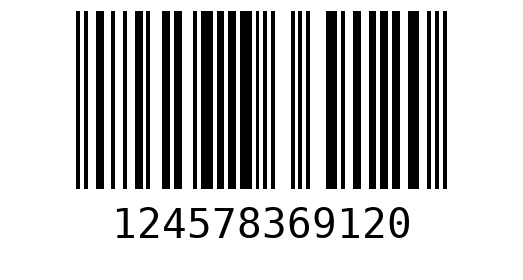
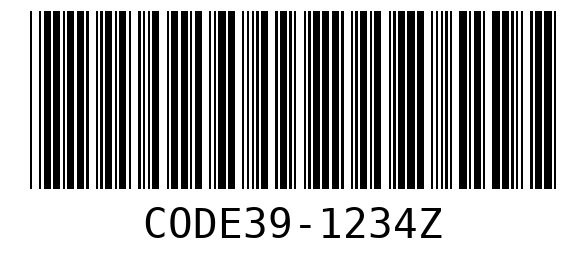
add work

diff --git a/Generate-Barcode.py b/Generate-Barcode.py
@@ -1,3 +1,5 @@
+# Use UPC type only
+"""
 import barcode
 from barcode.writer import ImageWriter
 
@@ -8,3 +10,73 @@ my_barcode.save("generated_barcode")
 
 from PIL import Image
 Image.open('generated_barcode.png')
+"""
+
+# Using the all supported types:
+#   ean8, ean13, upc, isbn10, isbn13,
+#   issn, code39, code128, pzn, jan
+
+import barcode
+from barcode.writer import ImageWriter
+from PIL import Image
+
+# List of supported barcode types
+supported_types = [
+    "ean8", "ean13", "upc", "isbn10", "isbn13",
+    "issn", "code39", "code128", "pzn", "jan"
+]
+
+print("Supported Barcode Types:")
+for i, code in enumerate(supported_types, 1):
+    print(f"{i}. {code}")
+
+# User selects barcode type
+while True:
+    try:
+        choice = int(input("Select a barcode type by number (e.g., 3 for upc): "))
+        if 1 <= choice <= len(supported_types):
+            selected_type = supported_types[choice - 1]
+            break
+        else:
+            print("Invalid choice. Try again.")
+    except ValueError:
+        print("Please enter a valid number.")
+
+# Get the barcode class
+barcode_format = barcode.get_barcode_class(selected_type)
+
+# Ask user for code input
+while True:
+    number = input(f"Enter the code for {selected_type} (check its digit length): ")
+    try:
+        # Try to create the barcode object
+        my_barcode = barcode_format(number, writer=ImageWriter())
+        break
+    except Exception as e:
+        print(f"Error: {e}. Please try again with a valid code.")
+
+# Save the barcode image
+filename = my_barcode.save("generated_barcode")
+print(f"Barcode generated and saved as: {filename}.png")
+
+# Open the image using Pillow
+Image.open(filename + ".png").show()
+
+"""
+Barcode Types with Example Inputs
+=====================================
+
+| Barcode Type | Input Length / Format      | Example Input    | Notes / Use Case                                 |
+| ------------ | -------------------------- | ---------------- | ------------------------------------------------ |
+| upc        | 11 digits              | 12345678901    | Standard retail products (mostly in USA)         |
+| ean13`     | 12 digits              | 590123412345   | International retail barcodes (adds check digit) |
+| isbn13     | 12 digits              | 978316148410   | Book identifiers (ISBN)                          |
+| code128    | Variable, alphanumeric | Code128-XYZ123 | High-density, supports letters, digits, symbols  |
+| code39     | Variable, alphanumeric | CODE39-1234    | Simple alphanumeric (uppercase, -, space, etc.)  |
+| issn       | 7 digits               | 2049363        | International Standard Serial Number (magazines) |
+| jan        | 12 digits              | 490123456789   | Japanese Article Number (like EAN13 for Japan)   |
+| pzn        | 6 digits               | 123456         | German pharmaceutical product code               |
+| ean8       | 7 digits               | 1234567        | Shorter retail codes, smaller packaging          |
+| isbn10     | 9 digits               | 316148410      | Book ISBN (older 10-digit format)                |
+
+"""
